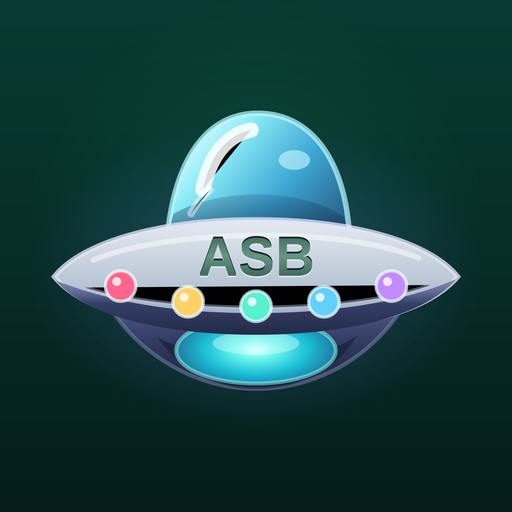
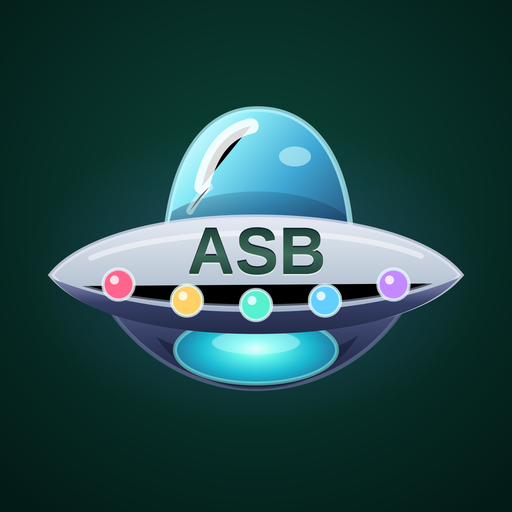
Add files via upload

diff --git a/webroot/index.html b/webroot/index.html
@@ -1981,7 +1981,7 @@ body.config-category-active #configPage.cfg-short-fit .cfg-list { padding-bottom
 .zygisk-page .zy-evidence { margin: 4px 0 12px; padding: 10px 12px; border: 1px solid var(--border); border-radius: 14px; }
 .zygisk-page .zy-evidence summary { cursor: pointer; color: var(--text-secondary); font-size: 12.5px; font-weight: 600; }
 .zygisk-page .zy-evidence[open] summary { margin-bottom: 8px; }
-.zygisk-page .zy-evidence .lgr-row-long { flex-direction:column; align-items:stretch; gap:4px; padding:8px 0; border-top:1px solid var(--border); }
+.zygisk-page .zy-evidence .lgr-row-long { flex-direction:column; align-items:stretch; gap:4px; padding:8px 0; }
 .zygisk-page .zy-evidence .lgr-row-long .lgr-v { max-width:100%; text-align:start; font:11px/1.5 var(--mono); overflow-wrap:anywhere; word-break:break-word; }
 .zygisk-page .dev-zygisk-input { min-height:84px; resize:vertical; white-space:pre-wrap; overflow-wrap:anywhere; }
 
@@ -2347,15 +2347,17 @@ body.config-category-active #configPage .cfg-list {
 #devicePage .dev-group[id], #configPage .cfg-section[id] {
   scroll-margin-top: calc(var(--status-scrim-top) + 20px); }
 #reportPage .lgr-sec > .lgr-sec-t, #zygiskPage .lgr-sec > .lgr-sec-t {
-  margin-bottom: 10px; padding-bottom: 8px; border-bottom: 1px solid var(--border);
+  margin-bottom: 10px; padding-bottom: 8px;
   font-size: 11.5px; line-height: 1.35; letter-spacing: .065em; }
+#reportPage .lgr-sec > .lgr-sec-t { border-bottom: 1px solid var(--border); }
+/* buildfix33: cards, spacing and subsection titles already separate Zygisk content. */
 #reportPage .lgr-hero, #zygiskPage .lgr-hero { min-width: 0; gap: 5px; padding: 12px; }
 #reportPage .lgr-hero-val, #zygiskPage .lgr-hero-val { font: 700 23px/1.15 var(--sans);
   letter-spacing: normal; overflow-wrap: anywhere; font-variant-numeric: tabular-nums; }
 #reportPage .lgr-hero-lbl, #zygiskPage .lgr-hero-lbl { line-height: 1.35; letter-spacing: .045em; }
 #reportPage .lgr-hero-sub, #zygiskPage .lgr-hero-sub { line-height: 1.45; overflow-wrap: anywhere; }
 #reportPage .lgr-row, #zygiskPage .lgr-row { padding: 6px 0; gap: 12px; line-height: 1.45; }
-#reportPage .lgr-row + .lgr-row, #zygiskPage .lgr-row + .lgr-row { border-top: 1px solid var(--border); }
+#reportPage .lgr-row + .lgr-row { border-top: 1px solid var(--border); }
 #reportPage .lgr-k, #zygiskPage .lgr-k { line-height: 1.45; }
 #reportPage .lgr-row:not(.lgr-row-long) .lgr-v, #zygiskPage .lgr-row:not(.lgr-row-long) .lgr-v {
   font-family: var(--mono); font-size: 12px; line-height: 1.45; }
@@ -2373,7 +2375,6 @@ body.config-category-active #configPage .cfg-list {
  * a hairline separates "what the link is doing" from "what you can switch". */
 #zygiskPage .zy-status-card > .zy-controls-embedded {
   margin: 12px 0 0; padding: 12px 0 0;
-  border-top: 1px solid color-mix(in srgb, var(--border) 85%, transparent);
   scroll-margin-top: calc(var(--status-scrim-top) + 20px);
 }
 #zygiskPage .zy-status-card > .zy-controls-embedded .zy-controls-reveal { margin-top: 0; }
@@ -6251,7 +6252,7 @@ html:root[data-asb-glass="1"] .cfg-reset-dialog {
 .profile-details-hero-name { color:#78efbf; font:850 24px/1.15 var(--sans); }
 .profile-details-hero-sub { margin-top:7px; color:var(--text-secondary); font:500 12px/1.5 var(--sans); }
 .package-fix-card .bfx-fix-kicker { margin:0 0 8px; color:var(--cat-ink,var(--accent)); font:700 10px/1.2 var(--mono); letter-spacing:.09em; }
-.zy-merged-subsection { margin-top:12px; padding-top:11px; border-top:1px solid var(--border); }
+.zy-merged-subsection { margin-top:12px; padding-top:11px; }
 .zy-merged-title { margin:0 0 9px; color:var(--text); font:700 12px/1.3 var(--sans); }
 #zy-status .zy-merged-subsection .zy-auto-badge { margin-top:0; }
 .kernel-controls-help { padding:11px 12px; }
@@ -6403,9 +6404,9 @@ html:root .cfg-profile-sheet.live-info-sheet .live-drain-done { margin-top:16px;
       <stop stop-color="#E3E9F1"/><stop offset=".48" stop-color="#BECAD8"/><stop offset="1" stop-color="#91A3B8"/>
     </linearGradient>
     <linearGradient id="asbUfoEngraving" x1="48" y1="30" x2="48" y2="42" gradientUnits="userSpaceOnUse">
-      <stop stop-color="#315C50"/><stop offset=".5" stop-color="#669582"/><stop offset="1" stop-color="#2B5549"/>
+      <stop stop-color="#173B32"/><stop offset=".5" stop-color="#3F6B5A"/><stop offset="1" stop-color="#12342C"/>
     </linearGradient>
-    <text id="asbUfoInitials" x="48" y="40" text-anchor="middle" font-family="Arial,Helvetica,sans-serif" font-size="11" font-weight="800" letter-spacing=".18">ASB</text>
+    <text id="asbUfoInitials" x="48" y="40" text-anchor="middle" font-family="Arial,Helvetica,sans-serif" font-size="13" font-weight="800" letter-spacing=".12">ASB</text>
     <linearGradient id="asbUfoRim" x1="48" y1="37" x2="48" y2="53" gradientUnits="userSpaceOnUse">
       <stop stop-color="#AEB4D2"/><stop offset=".38" stop-color="#656D98"/><stop offset=".55" stop-color="#353E66"/><stop offset="1" stop-color="#202844"/>
     </linearGradient>
@@ -8841,8 +8842,20 @@ let _deviceOpen = false;
 let _deviceLoadSeq = 0;
 let _zygiskOpen = false;
 
+/* AudioContext creation is synchronous in some WebViews. Do not let the first navigation
+ * sound hold the tap task that prepares and starts a page slide. One bounded timer coalesces
+ * rapid tab changes; there is no worker, polling loop or delayed page-state mutation. */
+let _asbNavSoundTimer = 0;
+function asbNavSound() {
+  if (_asbNavSoundTimer) clearTimeout(_asbNavSoundTimer);
+  _asbNavSoundTimer = setTimeout(function () {
+    _asbNavSoundTimer = 0;
+    if (!document.hidden) uiSound('nav');
+  }, 32);
+}
+
 function openLivePage() {
-  uiSound('nav');
+  asbNavSound();
   const p = _el('livePage');
   if (!p) return;
   /* Reset scroll before any class change. Restore the last complete display snapshot while
@@ -8881,7 +8894,7 @@ function liveOpenRefreshDelay() {
 }
 
 function closeLivePage() {
-  uiSound('nav');
+  asbNavSound();
   const p = _el('livePage');
   if (!p) return;
   asbNavAnimMark();
@@ -9456,7 +9469,20 @@ function liveDrainEnsure() {
   _el('liveDrainDone').onclick = liveDrainClose;
   return m;
 }
-function liveDrainBlock(icon, label, value, basis, left) {
+function liveDrainExplanation(text, bodyClass, foldKey) {
+  const fold = document.createElement('details');
+  fold.className = 'live-drain-explanation asb-disclosure';
+  fold.setAttribute('data-drain-fold', foldKey);
+  const summary = document.createElement('summary');
+  summary.textContent = T('zy_explanation', 'Explanation');
+  fold.appendChild(summary);
+  const body = document.createElement('div');
+  body.className = bodyClass;
+  body.textContent = text;
+  fold.appendChild(body);
+  return fold;
+}
+function liveDrainBlock(icon, label, value, basis, left, foldKey) {
   const b = document.createElement('div');
   b.className = 'live-drain-block';
   const ic = document.createElement('span');
@@ -9465,13 +9491,14 @@ function liveDrainBlock(icon, label, value, basis, left) {
   b.appendChild(ic);
   const tx = document.createElement('div');
   tx.className = 'live-drain-txt';
-  [['live-drain-lbl', label], ['live-drain-val', value], ['live-drain-basis', basis], ['live-drain-left', left]].forEach(function (p) {
+  [['live-drain-lbl', label], ['live-drain-val', value], ['live-drain-left', left]].forEach(function (p) {
     if (!p[1]) return;
     const e = document.createElement('div');
     e.className = p[0];
     e.textContent = p[1];
     tx.appendChild(e);
   });
+  if (basis) tx.appendChild(liveDrainExplanation(basis, 'live-drain-basis', foldKey));
   b.appendChild(tx);
   return b;
 }
@@ -9505,26 +9532,32 @@ function liveDrainPaint() {
     if (_et) offBasis += ' \u00b7 ' + _et;
   }
   const left = T('lv_drain_left', 'to 0%: %s');
+  /* A background meter repaint must not close a tab the user is reading. Stable keys also
+   * keep the Right-now block independent when it appears or disappears between paints. */
+  const openFolds = Object.create(null);
+  if (body.querySelectorAll) body.querySelectorAll('details[data-drain-fold]').forEach(function (fold) {
+    if (fold.open) openFolds[fold.getAttribute('data-drain-fold')] = true;
+  });
   body.textContent = '';
   body.appendChild(liveDrainBlock('sun', _lvDrain.onLabel || T('lv_scr_on_boot', 'Screen on · since boot'), onV, onBasis,
-    (etaOn && etaOn !== '\u2014' && _lvDrain.on !== 'charging') ? left.replace('%s', etaOn) : ''));
+    (etaOn && etaOn !== '\u2014' && _lvDrain.on !== 'charging') ? left.replace('%s', etaOn) : '', 'on'));
   /* fix279: the live window, labelled as what it is and never in place of the average. */
   if ((_lvDrain.on === 'meter' || _lvDrain.on === 'boot' || _lvDrain.on === 'profile') && _lvDrain.nowX > 0) {
     const nowMin = Math.max(1, Math.round((_lvDrain.nowS || 0) / 60));
     const nowEta = _lvEta.cap > 0 ? lvEtaFmt(Math.floor(_lvEta.cap * 600 / _lvDrain.nowX)) : '';
     body.appendChild(liveDrainBlock('timeout', T('lv_drain_now_lbl', 'Right now'), lvPct(_lvDrain.nowX, 10, 1),
       T('lv_drain_on_now', 'measured over the last %s min with the screen on').replace('%s', String(nowMin)),
-      (nowEta && nowEta !== '\u2014') ? T('lv_drain_left_now', 'at this pace to 0%: %s').replace('%s', nowEta) : ''));
+      (nowEta && nowEta !== '\u2014') ? T('lv_drain_left_now', 'at this pace to 0%: %s').replace('%s', nowEta) : '', 'now'));
   }
   body.appendChild(liveDrainBlock('theme_moon', _lvDrain.offSrc === 'night'
     ? T('lv_scr_off_night', 'Screen off · last night') : T('lv_scr_off', 'Screen off'), offV, offBasis,
-    (etaOff && etaOff !== '\u2014') ? left.replace('%s', etaOff) : ''));
+    (etaOff && etaOff !== '\u2014') ? left.replace('%s', etaOff) : '', 'off'));
   const cmp = liveDrainCompare();
   if (cmp) body.appendChild(cmp);
-  const note = document.createElement('div');
-  note.className = 'live-drain-note';
-  note.textContent = T('lv_drain_note_avg', 'Screen on is the average of this profile - the same figure on the profile cards, in the manager action and on this tile. Right now is only the latest continuous stretch with the screen on and moves with what you are doing. Screen off prefers the latest complete quiet window. The infinite-log report counts only the time of its own recording. All figures come from the battery level, not from the current sensor.');
-  body.appendChild(note);
+  body.appendChild(liveDrainExplanation(T('lv_drain_note_avg', 'Screen on is the average of this profile - the same figure on the profile cards, in the manager action and on this tile. Right now is only the latest continuous stretch with the screen on and moves with what you are doing. Screen off prefers the latest complete quiet window. The infinite-log report counts only the time of its own recording. All figures come from the battery level, not from the current sensor.'), 'live-drain-note', 'note'));
+  if (body.querySelectorAll) body.querySelectorAll('details[data-drain-fold]').forEach(function (fold) {
+    if (openFolds[fold.getAttribute('data-drain-fold')]) fold.open = true;
+  });
 }
 function liveDrainCompare() {
   const p = _lvMeter.p || {};
@@ -9931,7 +9964,9 @@ function liveInfoEnsure() {
     + '<div class="live-info-now"><span class="live-drain-lbl" id="liveInfoNowLbl"></span><span class="live-info-val" id="liveInfoVal"></span></div>'
     + '<div class="live-info-scale" id="liveInfoScale" hidden></div>'
     + '<div class="live-info-pressure" id="liveInfoPressure" hidden></div>'
-    + '<div class="live-info-text" id="liveInfoText"></div>'
+    + '<details class="live-info-disclosure asb-disclosure" id="liveInfoDisclosure">'
+    + '<summary id="liveInfoSummary"></summary>'
+    + '<div class="live-info-text" id="liveInfoText"></div></details>'
     + '<div class="live-info-hist" id="liveInfoHist" hidden></div>'
     + '<div class="live-info-src" id="liveInfoSrc" hidden></div>'
     + '<button class="cfg-profile-primary live-drain-done" id="liveInfoDone" type="button"></button></div>';
@@ -9940,6 +9975,20 @@ function liveInfoEnsure() {
   _el('liveInfoX').onclick = liveInfoClose;
   _el('liveInfoDone').onclick = liveInfoClose;
   return m;
+}
+/* Long prose is secondary evidence, not part of the reading itself. Every tile and
+ * data-driven variant uses this same native, keyboard-operable disclosure. Opening another
+ * tile starts collapsed again; values, scales, charts, pressure and sources stay visible. */
+function liveInfoExplanationSet(text) {
+  const value = String(text || '');
+  const fold = _el('liveInfoDisclosure');
+  if (fold) {
+    fold.open = false;
+    fold.hidden = !value.trim();
+    const summary = _el('liveInfoSummary');
+    if (summary) summary.textContent = T('zy_explanation', 'Explanation');
+  }
+  _el('liveInfoText').textContent = value;
 }
 function liveInfoSource(key, cell) {
   const lines = [];
@@ -10373,7 +10422,9 @@ function liveInfoOpen(cell) {
    * seventeen sheets in the tile's colour, in both themes. */
   iv.style.color = '';
   try { if (val && typeof getComputedStyle === 'function') iv.style.color = getComputedStyle(val).color || ''; } catch (e) {}
-  _el('liveInfoText').textContent = lviFill(T(txt[0], txt[1]));
+  const explanation = lviFill(T(txt[0], txt[1]));
+  if (typeof liveInfoExplanationSet === 'function') liveInfoExplanationSet(explanation);
+  else _el('liveInfoText').textContent = explanation;
   lviScaleRender(_el('liveInfoScale'), key, lviScaleValue(key, iv.textContent));
   if (key === 'trend' || key === 'strend') lviTrendRender(_el('liveInfoHist'), key, iv.style.color);
   else lviHistRender(_el('liveInfoHist'), key, iv.style.color, lviExtra(key));
@@ -10398,7 +10449,8 @@ function liveInfoOpenData(detail) {
   _el('liveInfoNowLbl').textContent = detail.nowLabel || T('lvi_now', 'Now');
   const iv = _el('liveInfoVal'); iv.textContent = String(detail.value === undefined ? '—' : detail.value);
   iv.className = 'live-info-val'; iv.style.color = '';
-  _el('liveInfoText').textContent = String(detail.text || '');
+  if (typeof liveInfoExplanationSet === 'function') liveInfoExplanationSet(detail.text);
+  else _el('liveInfoText').textContent = String(detail.text || '');
   _el('liveInfoScale').hidden = true; _el('liveInfoScale').textContent = '';
   const lip = _el('liveInfoPressure'); if (lip) { lip.hidden = true; lip.textContent = ''; }
   _el('liveInfoHist').hidden = true; _el('liveInfoHist').textContent = '';
@@ -10860,7 +10912,17 @@ function cfgLoadParts() {
   return parts;
 }
 function cfgLoadFresh() { return _cfgLoadedAt > 0 && Date.now() - _cfgLoadedAt < CFG_FRESH_MS; }
+/* The ordinary startup/intro already owns this Config transaction. Prime its static hub in
+ * the hidden page before the first root read, so an early tap usually reuses finished DOM
+ * instead of constructing every tile in the navigation task. No extra shell or timer is added. */
+function cfgPrimeHub() {
+  if (_cfgOpen || _cfgGroup || _cfgSearch) return;
+  const list = _el('cfgList');
+  if (!list || (list.firstChild && _cfgHubSig && _cfgHubSig === cfgHubSig())) return;
+  cfgRender();
+}
 function cfgLoad(force) {
+  cfgPrimeHub();
   if (!force && cfgLoadFresh()) return Promise.resolve(false);
   if (_cfgLoadRun) return _cfgLoadRun.then(function () { return force ? cfgLoadNow() : false; });
   _cfgLoadRun = cfgLoadNow().then(function (v) { _cfgLoadRun = null; return v; }, function (e) { _cfgLoadRun = null; throw e; });
@@ -12080,12 +12142,11 @@ function cfgRenderGroup(list, groupId) {
       cfgRenderInfirmaryAdvice(list);
       cfgRenderBatteryFixCard(list);
       cfgRenderComponentManagerCard(list);
-      /* SOTER belongs to the same repair flow, directly after Battery Fix rather than
-       * below the unrelated package repairs. Both cards keep their own status owner. */
+      /* Keep the two package repairs as the final cards on the Infirmary page. */
+      cfgRenderSoterFixCard(list);
     }
     else if (section.card === 'systemfixes') {
       cfgRenderPackageFixCards(list, sectionItems);
-      cfgRenderSoterFixCard(list);
     }
     else if (section.card === 'junkcleanup') cfgRenderJunkCleanupCard(list);
     else if (section.card === 'camtools') cfgRenderCameraToolsCards(list);
@@ -20145,11 +20206,11 @@ function zygiskModeCard(d) {
   card.appendChild(seg);
   const shown = ZYGISK_MODES.filter(function (m) { return m.id === mode; })[0];
   const desc = document.createElement('div'); desc.className = 'zy-mode-desc';
-  if (shown) desc.textContent = T(shown.key + '_desc', shown.desc);
+  if (shown && shown.id !== 'auto') desc.textContent = T(shown.key + '_desc', shown.desc);
   else if (mode === 'custom') desc.textContent = T('zy_mode_custom_unified', 'Custom: switches or the guard differ from the preset. ASB will not silently undo your manual choice. Choose a mode above to reapply its complete set.');
   else if (mode === 'off') desc.textContent = T('zy_mode_off_desc', 'Nothing runs in app processes: no connection, no request, no ledger. Zero cost.');
-  else desc.textContent = T('zy_mode_unknown', 'The current mode could not be read; choosing one writes all four settings.');
-  card.appendChild(desc);
+  else if (mode !== 'auto') desc.textContent = T('zy_mode_unknown', 'The current mode could not be read; choosing one writes all four settings.');
+  if (desc.textContent) card.appendChild(desc);
   if (mode === 'custom') {
     const custom = logReportNote(T('zy_mode_custom_warning', 'Manual override active. In particular, cold-start or lifecycle requests added to Battery can increase activity; the interface will not keep calling that set Battery.'), true);
     custom.classList.add('zy-custom-note'); card.appendChild(custom);
@@ -20157,8 +20218,6 @@ function zygiskModeCard(d) {
   if (deviceVal(d, 'zygisk_observer', 'safe_mode') === 'on' && mode !== 'off') {
     card.appendChild(logReportNote(T('zy_mode_safe_note', 'Safe mode is on: the mode is saved, but nothing runs in app processes until safe mode is cleared below.'), true));
   }
-  const note = logReportNote(T('zy_mode_note', 'A change applies to app processes started after it; apps already running keep their state until they restart.'));
-  note.classList.add('dev-evidence'); card.appendChild(note);
   return card;
 }
 async function zygiskModeSet(id) {
@@ -20241,6 +20300,9 @@ function zygiskPageRender(d, state) {
     st.classList.add('zy-status-merged'); st.appendChild(controls);
   }
   body.appendChild(st);
+  if (zyOn) {
+    const mode = zygiskModeCard(d); mode.id = 'zy-mode'; body.appendChild(mode);
+  }
   if (!zyOn) {
     body.appendChild(zygiskOffCard());
     const lspOff = lspLiteCard(); lspOff.id = 'zy-lsp'; body.appendChild(lspOff);
@@ -20255,7 +20317,6 @@ function zygiskPageRender(d, state) {
     ['zy-guard', T('zy_nav_guard', 'Guard')], ['zy-engine', T('zy_link_nav', 'Unified engine')], ['zy-lsp', T('zy_nav_lsp', 'LSPosed')], ['zy-s7', T('zy_nav_s7', 'Budgets')], ['zy-aot', T('zy_nav_art', 'ART')],
     ['zy-apps', T('zy_nav_apps', 'Apps')]
   ], T('dev_nav_title', 'Jump to'), 'zy-page-nav'));
-  const mode = zygiskModeCard(d); mode.id = 'zy-mode'; body.appendChild(mode);
   const automatic = zygiskAutoCard(d);
   const auto = document.createElement('section'); auto.id = 'zy-auto'; auto.className = 'zy-merged-subsection';
   const autoTitle = document.createElement('h3'); autoTitle.className = 'zy-merged-title';
@@ -24421,6 +24482,9 @@ window.addEventListener('orientationchange', function () { asbUiFrame.request(as
 function asbStartupWarmCaches() {
   const warm = function (introShown) {
     if (introShown || document.hidden) return;
+    /* DOM-only priming need not wait for the root queue's input-quiet gap. It runs once after
+     * the first frame, so even an early Settings tap can reuse the finished localized hub. */
+    if (typeof cfgPrimeHub === 'function') cfgPrimeHub();
     /* Warm one shared Config transaction immediately after the first frame. An immediate
      * tap joins this exact promise instead of queuing a second ten-part read behind Live.
      * There is no timer/worker after the transaction and no repeat eager Config batch. */
@@ -24655,7 +24719,7 @@ window.addEventListener('resize', function () { _pageAnimMs._v = 0; });
 let _cfgAnimUntil = 0;
 
 function openConfigPage() {
-  uiSound('nav');
+  asbNavSound();
   const p = _el('configPage');
   if (!p) return;
   _cfgGroup = null;   // always open on the hub, never mid-drill from last time
